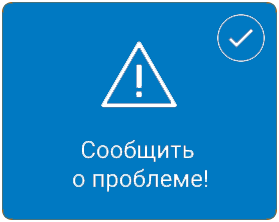
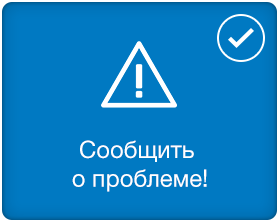
CoolButton

diff --git a/device/app/Style/Default/Main.css b/device/app/Style/Default/Main.css
@@ -463,8 +463,8 @@ svl vl {
             margin-left: 0%;
             margin-right: 3%;
             text-align: center;
-            color: #d12d2d;
-            background-color: #fab9b9;
+            color: #0079c2;
+            background-color: #cce4f3;
             border-style: solid;
             border-width: 0px;
             border-radius: 5px;
